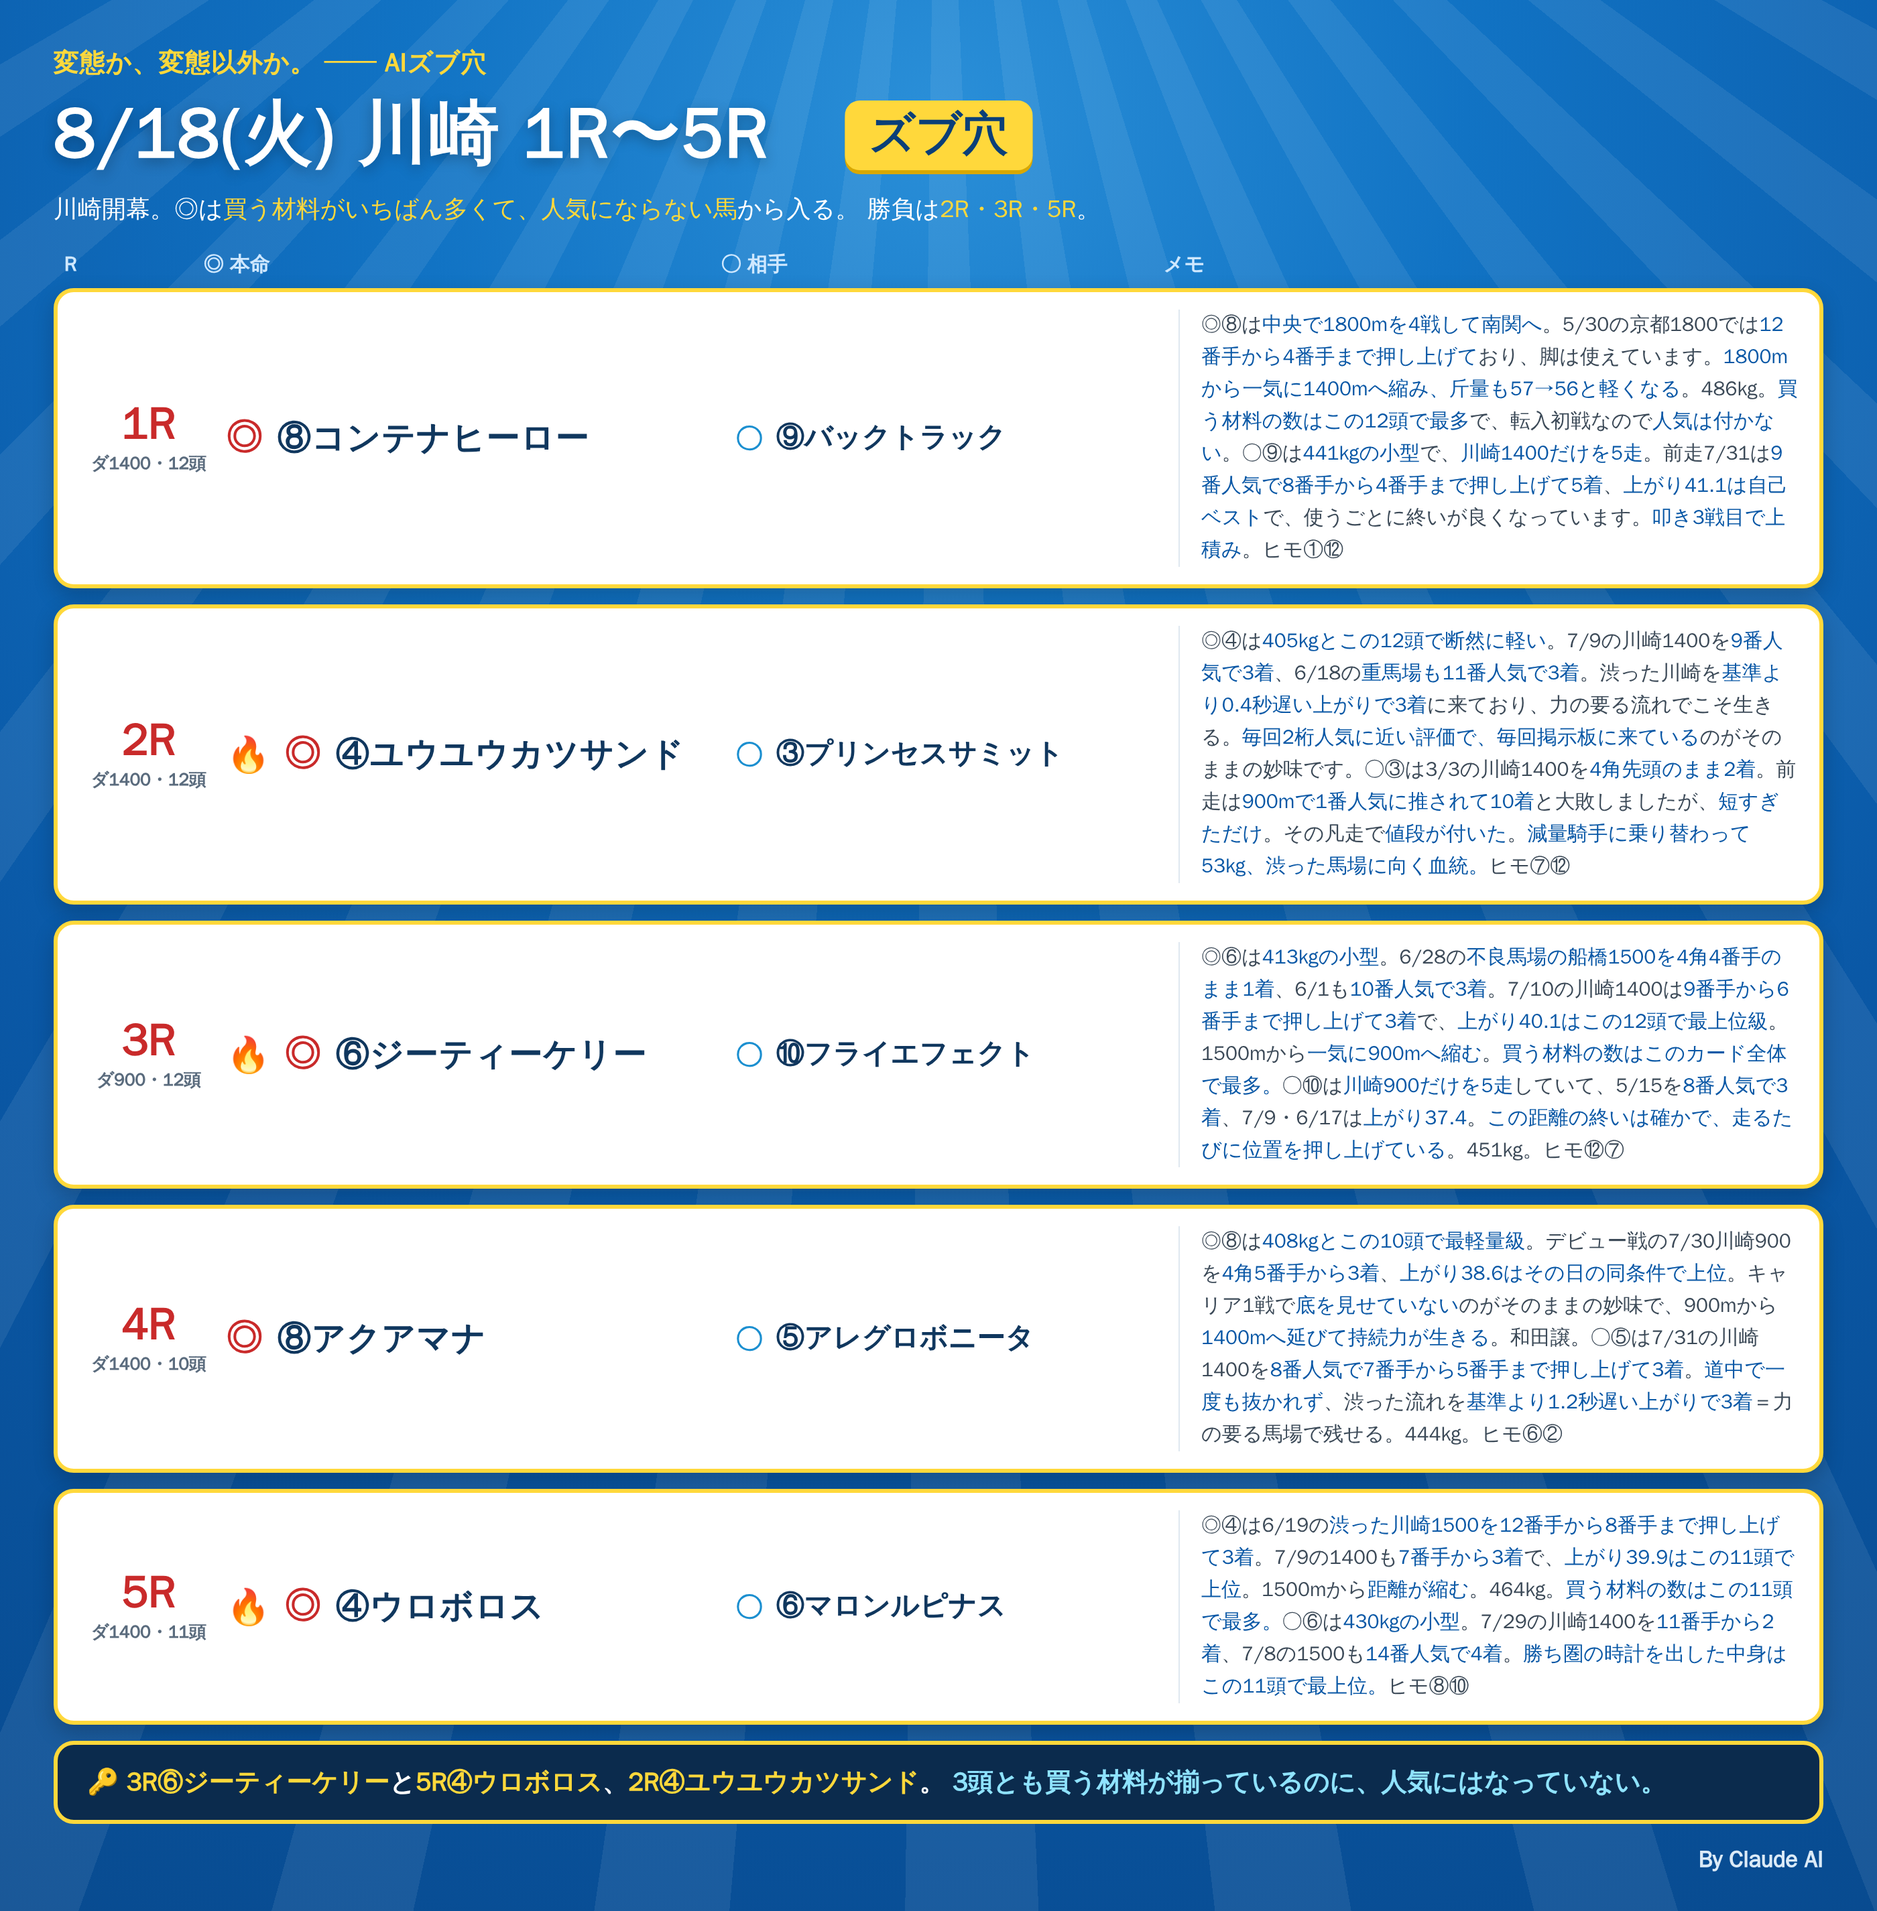
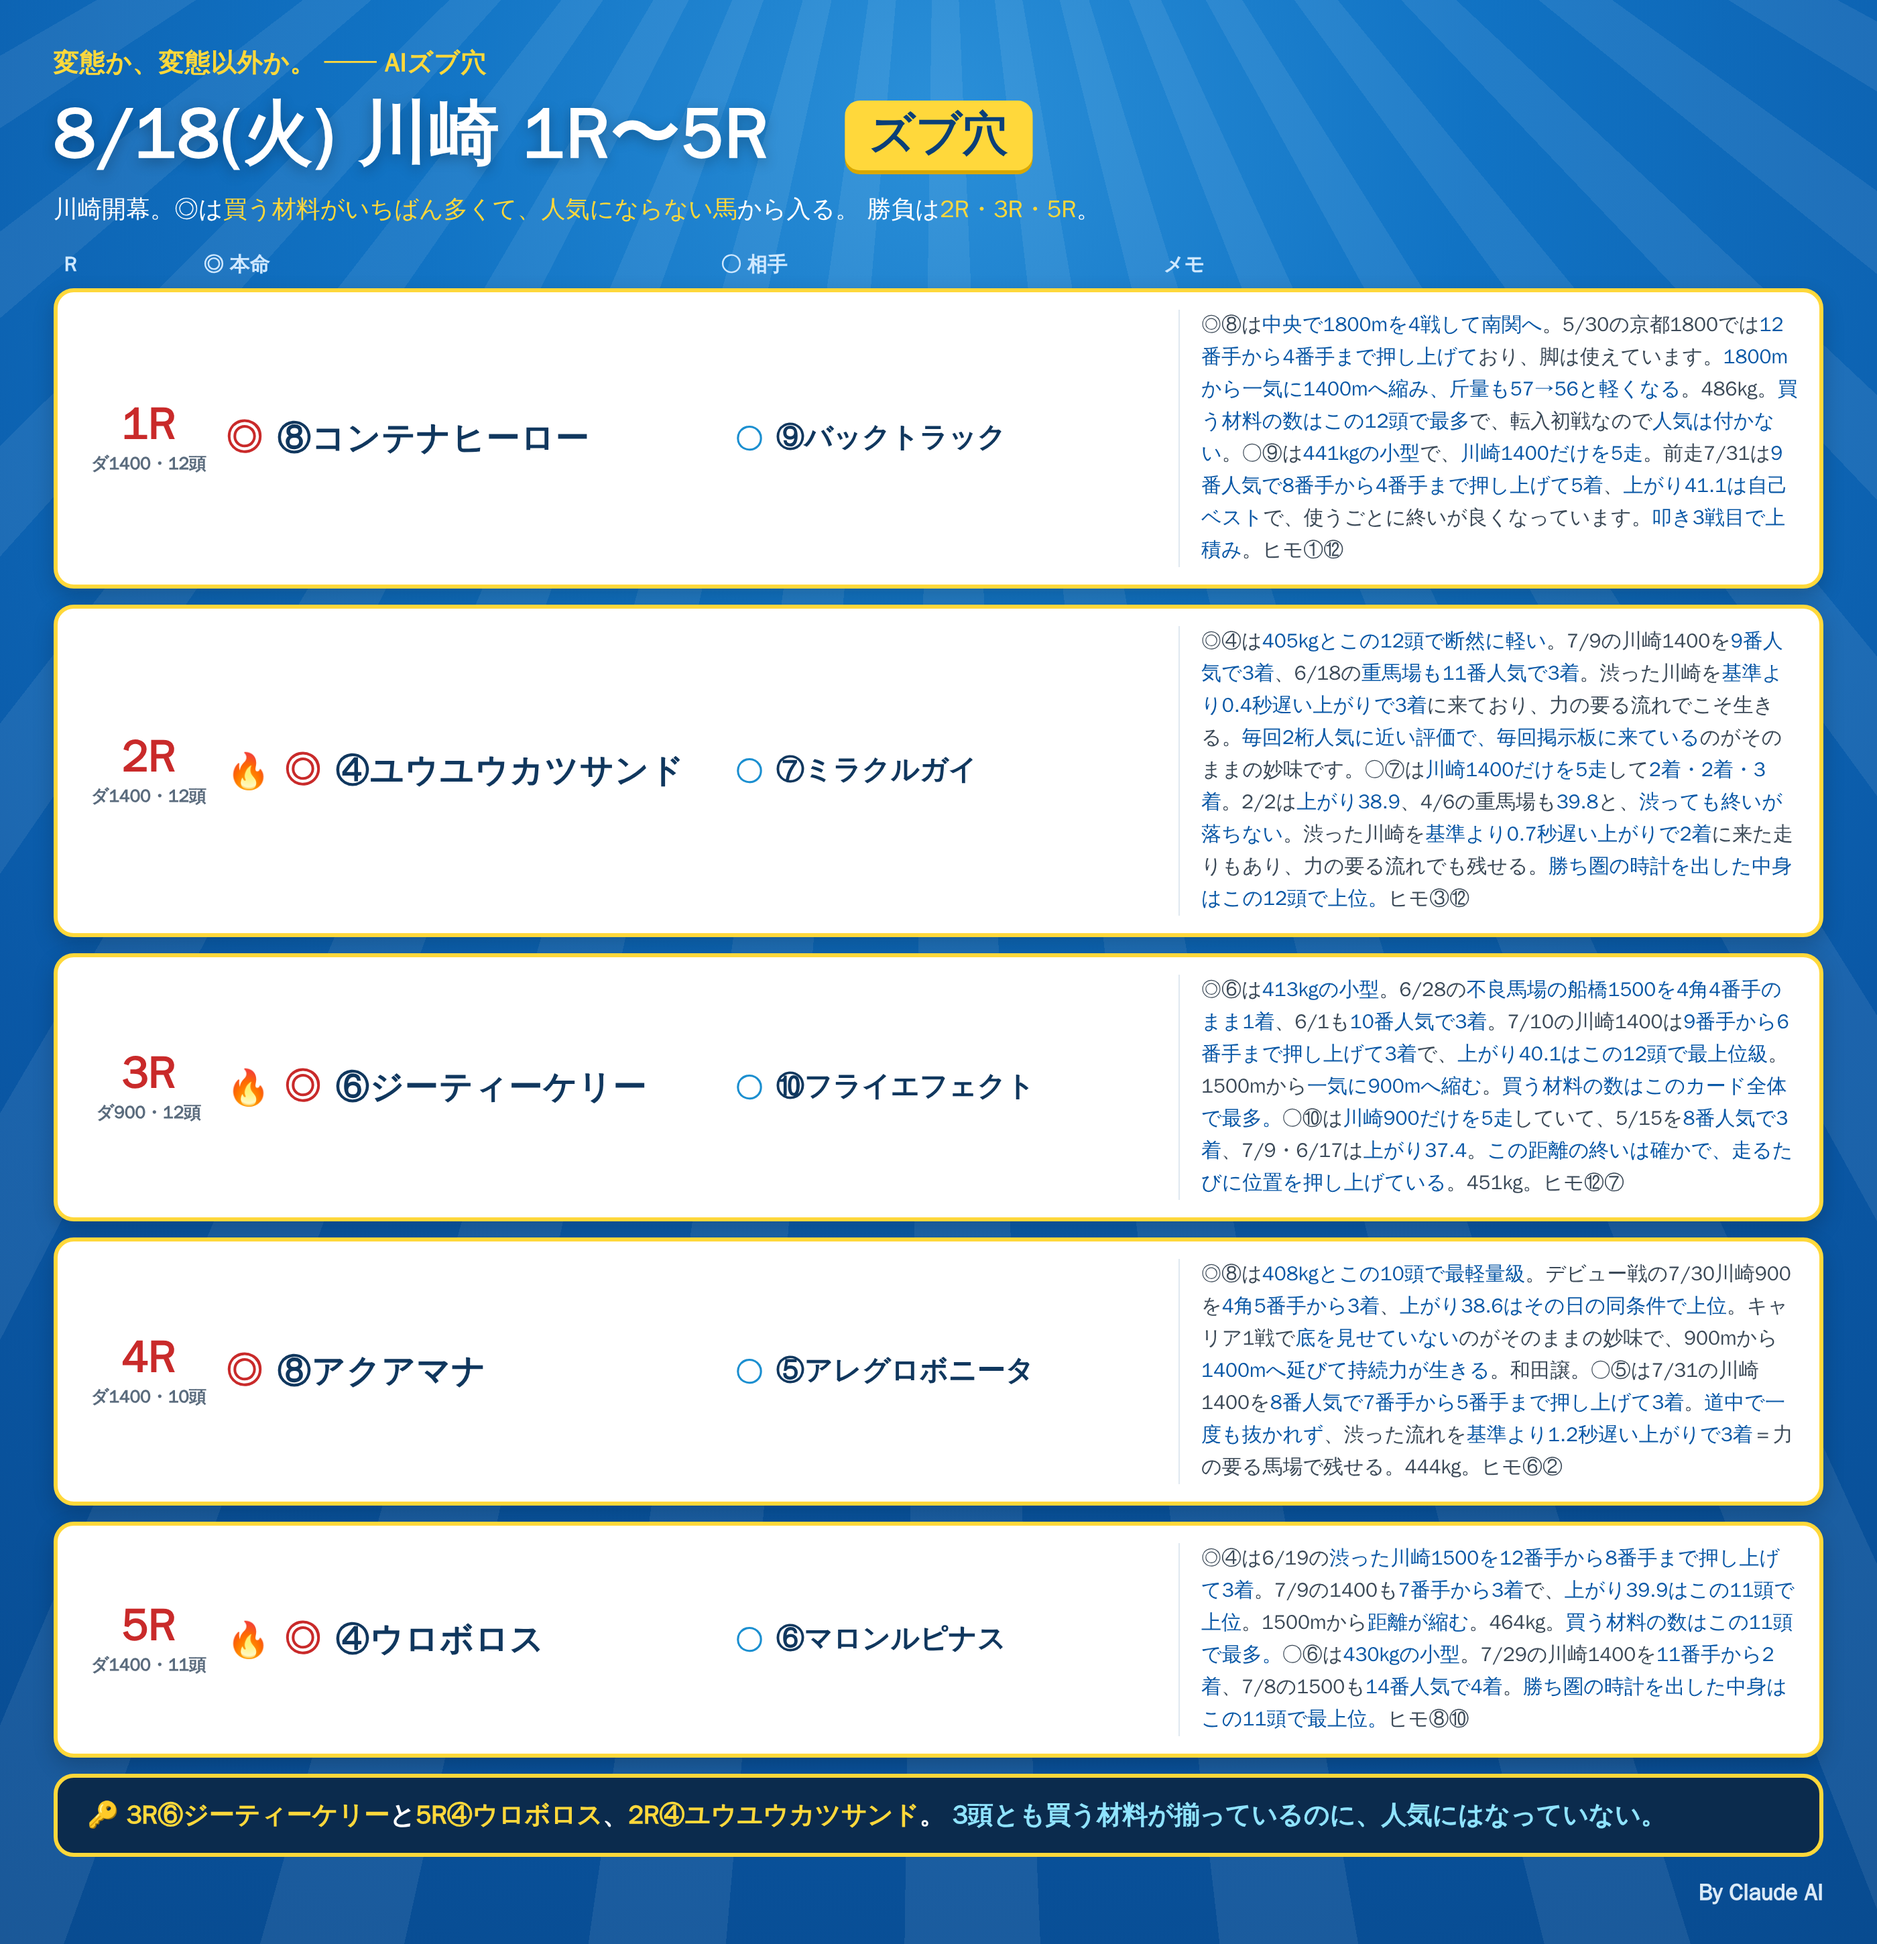
notes: 8/18 川崎 2R ○を⑦ミラクルガイに変更
Claude-Session: https://claude.ai/code/session_01RoHscZkr96FNaxQWvUqgEw

diff --git a/notes/live/2026-08-18/kawasaki_1_5.html b/notes/live/2026-08-18/kawasaki_1_5.html
@@ -61,8 +61,8 @@
   <div class="row">
     <div class="rN"><div class="n">2R</div><div class="d">ダ1400・12頭</div></div>
     <div class="hm"><span class="fire">🔥</span><span class="mk">◎</span><span class="nm">④ユウユウカツサンド</span></div>
-    <div class="at"><span class="mk2">○</span><span class="nm2">③プリンセスサミット</span></div>
-    <div class="memo">◎④は<b>405kgとこの12頭で断然に軽い</b>。7/9の川崎1400を<b>9番人気で3着</b>、6/18の<b>重馬場も11番人気で3着</b>。渋った川崎を<b>基準より0.4秒遅い上がりで3着</b>に来ており、力の要る流れでこそ生きる。<b>毎回2桁人気に近い評価で、毎回掲示板に来ている</b>のがそのままの妙味です。○③は3/3の川崎1400を<b>4角先頭のまま2着</b>。前走は<b>900mで1番人気に推されて10着</b>と大敗しましたが、<b>短すぎただけ</b>。その凡走で<b>値段が付いた</b>。<b>減量騎手に乗り替わって53kg、渋った馬場に向く血統。</b>ヒモ⑦⑫</div>
+    <div class="at"><span class="mk2">○</span><span class="nm2">⑦ミラクルガイ</span></div>
+    <div class="memo">◎④は<b>405kgとこの12頭で断然に軽い</b>。7/9の川崎1400を<b>9番人気で3着</b>、6/18の<b>重馬場も11番人気で3着</b>。渋った川崎を<b>基準より0.4秒遅い上がりで3着</b>に来ており、力の要る流れでこそ生きる。<b>毎回2桁人気に近い評価で、毎回掲示板に来ている</b>のがそのままの妙味です。○⑦は<b>川崎1400だけを5走</b>して<b>2着・2着・3着</b>。2/2は<b>上がり38.9</b>、4/6の重馬場も<b>39.8</b>と、<b>渋っても終いが落ちない</b>。渋った川崎を<b>基準より0.7秒遅い上がりで2着</b>に来た走りもあり、力の要る流れでも残せる。<b>勝ち圏の時計を出した中身はこの12頭で上位。</b>ヒモ③⑫</div>
   </div>
 
   <div class="row">

diff --git a/notes/live/2026-08-18/README.md b/notes/live/2026-08-18/README.md
@@ -87,7 +87,7 @@
 | R | ◎本命 | ○相手 | ヒモ |
 |---|---|---|---|
 | 1R ダ1400 | ⑧コンテナヒーロー（**エッジ6で12頭最多**・486kg・中央1800m4戦の転入初戦・斤57→56・1800→1400短縮） | **⑨バックトラック**（本人指定・441kgの小型・川崎1400を5走・前走7/31を**9番人気で8番手から4番手まで押し上げ5着**・上がり41.1は自己ベスト・叩き3戦目） | ①⑫ |
-| **2R ダ1400** | **④ユウユウカツサンド**（**実力軸12位＝最下位**・エッジ4・399=4.0・**405kgの超小型**・7/9を9番人気3着・6/18の重を11番人気3着） | ③プリンセスサミット（エッジ5最多・減量乗替53kg・前走900mで1番人気10着の凡走明け） | ⑦⑫ |
+| **2R ダ1400** | **④ユウユウカツサンド**（**実力軸12位＝最下位**・エッジ4・399=4.0・**405kgの超小型**・7/9を9番人気3着・6/18の重を11番人気3着） | **⑦ミラクルガイ**（本人指定・実力軸6位・エッジ3・399=4.2本物1・480kg・踏2・川崎1400を5走して2着2着3着・2/2に上がり38.9） | ③⑫ |
 | **3R ダ900** | **⑥ジーティーケリー**（**エッジ7・399=6.5でカード全体最多**・413kgの小型・6/28の不良船橋1500を1着・下げ0） | **⑩フライエフェクト**（本人指定・実力軸5位・エッジ3・451kg・踏1・ブレ1.10・川崎900を5走して5/15を**8番人気3着**・上がり37.4×2） | ⑫⑦ |
 | 4R ダ1400 | **⑧アクアマナ**（本人指定・408kg・デビュー戦の7/30川崎900を4角5番手から3着・上がり38.6・キャリア1戦） | **⑤アレグロボニータ**（本人指定・7/31の川崎1400を**8番人気で3着**・下げ0・444kg） | ⑥② |
 | **5R ダ1400** | **④ウロボロス**（**エッジ5最多・399=4.4**・実力軸9位・464kg・1500→1400短縮・6/19の重を12番手から8番手まで押し上げ3着） | ⑥マロンルピナス（**399=4.5でレース最高**・430kgの小型・実力軸8位・7/29を5番人気2着） | ⑧⑩ |
